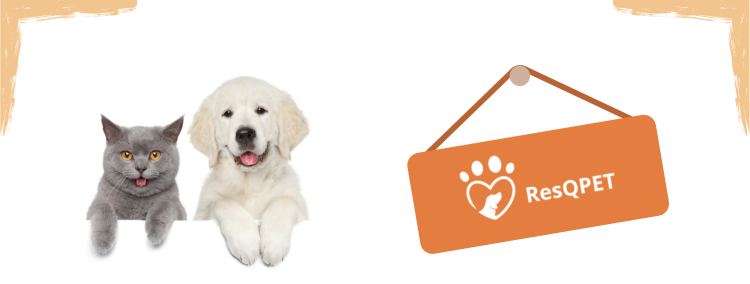
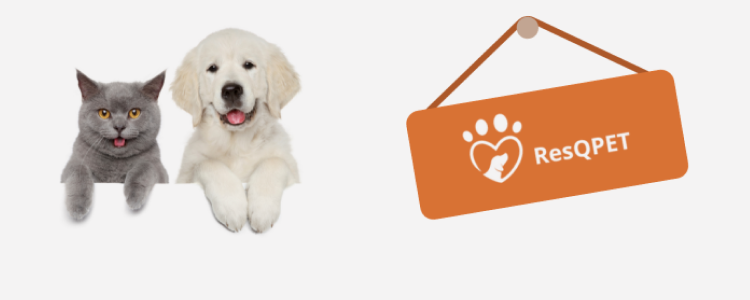
feat(QrGenerator): add new styles

diff --git a/src/pages/QrGenerator/QrGenerator.tsx b/src/pages/QrGenerator/QrGenerator.tsx
@@ -8,7 +8,7 @@ import { IconAt, IconPhone, IconQuestionMark, IconUser } from '@tabler/icons-rea
 import { dateFormatter } from '../../utils/dates';
 import { useKeycloak } from '@react-keycloak/web';
 import { useLazyGetUserDetailsByIdQuery } from '../../store/apis/resqpet.api';
-import qrBannerImage from './../../assets/slider adopción (1).png';
+import qrBannerImage from './../../assets/slider_adopcion.png';
 import qrPawsImage from './../../assets/icons/huellas.svg';
 import imageNotFoundMobile from './../../assets/qr-not-found-image-mobile.png';
 import imageNotFoundDesktop from './../../assets/qr-not-found-image-desktop.png';
@@ -16,7 +16,6 @@ import cn from 'classnames';
 import QrModal from '../../components/QrModal/QrModal';
 import useBreakpoint from '../../hooks/use-breakpoint';
 import { useTour } from '@reactour/tour';
-
 
 const QrGenerator = () => {
   const {
@@ -72,7 +71,7 @@ const QrGenerator = () => {
         </div>
       </header>
       {isLoading && <Loader opacity={60} />}
-      <Title variant='h3' className='font-bold text-center'>
+      <Title variant='h3' className='font-bold text-center p-5'>
         Genera un QR único para tu mascota
       </Title>
       <div id='qr-generator-7-step' className='w-0 h-0 ' />
@@ -168,13 +167,13 @@ const QrGenerator = () => {
             </button>
             {qrModal && <QrModal closeModal={() => setQrModal(false)} />}
             <div className='relative hidden w-full h-28 lg:block'>
-              <div className='absolute left-0 w-full bottom-10'>
+              <div className='left-0 w-full bottom-10'>
                 <img src={qrPawsImage} alt='huellas' />
               </div>
             </div>
           </section>
-          <section className='w-full lg:pr-10 lg:w-1/2' id='qr-generator-2-step'>
-            <div className='flex justify-center p-5 '>
+          <section className='w-full lg:p-10 lg:w-1/2' id='qr-generator-2-step'>
+            <div className='flex justify-center bg-mid-gray rounded-lg'>
               {!images[0].value && (
                 <>
                   {isLg && <img src={imageNotFoundDesktop} className='object-contain w-full rounded-lg h-96' />}
@@ -183,7 +182,7 @@ const QrGenerator = () => {
               )}
               {!!images[0].value && <img src={URL.createObjectURL(images[0].value)} className='object-cover w-full rounded-lg h-96' />}
             </div>
-            <article className='flex flex-col gap-3 rounded-t-3xl bg-primary p-9'>
+            <article className='flex flex-col gap-3 rounded-t-3xl bg-primary p-9 relative z-2 -mt-6'>
               <Title variant='h2'>{petName}</Title>
               <div className='flex justify-between'>
                 <TextDetail size='xs' weight='regular'>
@@ -195,6 +194,9 @@ const QrGenerator = () => {
               </div>
               <TextDetail size='xs' weight='regular' className='break-words'>
                 {description}
+              </TextDetail>
+              <TextDetail size='xs' weight='regular' className='break-words'>
+                Por favor contactarse con su protector para que <strong>{petName}</strong> vuelva con su familia:
               </TextDetail>
               {!!idTokenParsed && !!userDetails && (
                 <div className='flex flex-col justify-around gap-4'>

diff --git a/src/App.tsx b/src/App.tsx
@@ -45,32 +45,12 @@ function App() {
                   <meta
                     name='description'
                     content='ResQPet ayuda a los dueños de mascotas a mantener a sus queridas mascotas seguras y permite adoptar o dar en adopción a mascotas necesitadas.'
-            <div className='App bg-orange-light'>
-              <Container hasPadding={false}>
-                <ScrollToTop />
-                <Routes>
-                  <Route
-                    path='/'
-                    element={
-                      <Layout>
-                        <Home />
-                      </Layout>
-                    }
-                  />
-                  <Route
-                    path='/adoption'
-                    element={
-                      <Layout>
-                        <Adoption />
-                      </Layout>
-                    }
                   />
                   <meta
                     name='keywords'
                     content='codigo QR, mascotas, cuidado de perros, adopción de gatos, adopción de perros, dar en adopción, veterinario, consejos para mascotas'
                   />
                 </head>
-
                 <Container hasPadding={false}>
                   <ScrollToTop />
                   <Routes>
